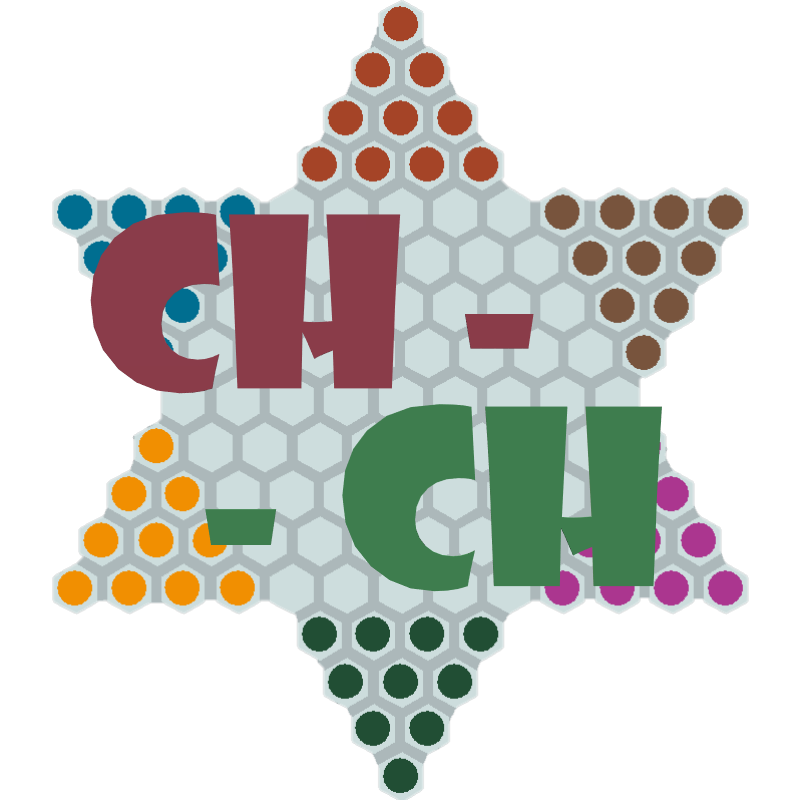
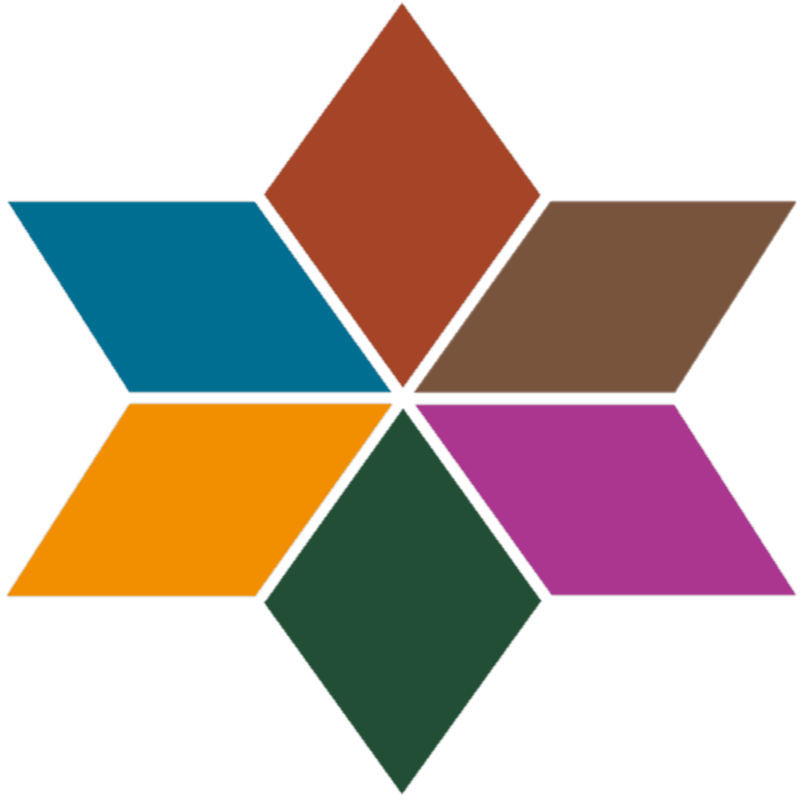
Implemented new generic filter for getting only rules of specified type from all that come from game context. Separated verification of args into new method in server main. Made first test for this verification process. Also merged iterators into one using generic types. And made that filterRules ac

diff --git a/ChineseCheckersServer/src/main/java/appServer/ServerCommunicationService.java b/ChineseCheckersServer/src/main/java/appServer/ServerCommunicationService.java
@@ -1,3 +1,8 @@
+package appServer;
+
+import games.Change;
+import games.boards.Cell;
+import games.boards.GameBoard;
 import games.rules.*;
 
 import java.io.IOException;
@@ -46,7 +51,7 @@ public class ServerCommunicationService {
 
             } else if (command.startsWith("PASS")) {
                 if (game.getCurrentPlayerId() == playerId) {
-                    game.resend("MESSAGE Player "+playerId+" passed his turn", playerId);
+                    game.resend("MESSAGE app.Player "+playerId+" passed his turn", playerId);
                     this.out.println("MESSAGE You Passed");
                     this.oldX = null;
                     this.oldY = null;
@@ -62,7 +67,7 @@ public class ServerCommunicationService {
         }
     }
 
-    private void processMoveCommand(int chosenX, int chosenY) {
+    public void processMoveCommand(int chosenX, int chosenY) {
 
         if (this.oldX == null || this.oldY == null) {
             if (this.game.getGameContext().getBoard().getCellState(chosenX, chosenY) != playerId) {
@@ -118,24 +123,37 @@ public class ServerCommunicationService {
         }
     }
 
-    private Change[] getPossibleMoves(int chosenX, int chosenY) {
-        //TODO : get all possible move
-        ArrayList<Change> list = new ArrayList<>();
-        Iterator gameRulesIterator = new GameRulesIterator(this.game.getGameContext().getRules());
+    public Change[] getPossibleMoves(int chosenX, int chosenY) {
+        ArrayList<Change> possibleMoves = new ArrayList<>();
+        GameBoard board = this.game.getGameContext().getBoard();
+        Cell currentCell = board.getCell(chosenX, chosenY);
 
-        while (gameRulesIterator.hasNext()) {
-            Iterator iterator = new RulesIterator(((MoveRule) gameRulesIterator.next()).getPossibleMoves(this.game.getGameContext().getBoard().getCell(chosenX, chosenY), this.game.getGameContext().getBoard()));
-//            Iterator iterator;
-//            if (gameRulesIterator.next() instanceof MoveRule) {
-//                iterator = new RulesIterator(((MoveRule) gameRulesIterator.next()).getPossibleMoves(this.game.getGameContext().getBoard().getCell(chosenX, chosenY), this.game.getGameContext().getBoard()));
-//            } else {
-//                iterator = new RulesIterator(((FilterRule) gameRulesIterator.next()).filterMoves(this.game.getGameContext().getBoard().getCell(chosenX, chosenY), this.game.getGameContext().getBoard()));
-//            }
+        MoveRule[] moveRules = this.game.getGameContext().getRulesOfType(MoveRule.class).toArray(new MoveRule[0]);
+        if (moveRules.length == 0) { moveRules = new MoveRule[]{new MoveOneRule()}; }
+
+        Iterator<MoveRule> moveRulesIterator = new Iterator<>(moveRules);
+
+        while (moveRulesIterator.hasNext()) {
+            Iterator<Change> iterator = new Iterator<>((moveRulesIterator.next()).getPossibleMoves(currentCell, board));
             while (iterator.hasNext()) {
-                list.add((Change) iterator.next());
+                possibleMoves.add(iterator.next());
             }
         }
-        return list.toArray(new Change[0]);
+
+        FilterRule[] filterRules = this.game.getGameContext().getRulesOfType(FilterRule.class).toArray(new FilterRule[0]);
+        if (filterRules.length == 0) { return possibleMoves.toArray(new Change[0]); }
+
+        ArrayList<Change> possibleMovesFiltered = new ArrayList<>();
+        Iterator<FilterRule> filterRulesIterator = new Iterator<>(filterRules);
+
+        while (filterRulesIterator.hasNext()) {
+            Iterator<Change> iterator = new Iterator<>((filterRulesIterator.next()).filterMoves(currentCell, board, possibleMoves.toArray(new Change[0])));
+            while (iterator.hasNext()) {
+                possibleMovesFiltered.add(iterator.next());
+            }
+        }
+
+        return possibleMovesFiltered.toArray(new Change[0]);
     }
 
     private String changesInfoToString(Change[] info) {

diff --git a/ChineseCheckersServer/src/main/java/appServer/MainServer.java b/ChineseCheckersServer/src/main/java/appServer/MainServer.java
@@ -1,3 +1,5 @@
+package appServer;
+
 import java.net.InetAddress;
 import java.net.ServerSocket;
 import java.util.concurrent.ExecutorService;
@@ -14,11 +16,6 @@ public class MainServer implements Runnable {
     @Override
     public void run() {
         try {
-            if (lobbySize != 2 && lobbySize != 3 && lobbySize != 4 && lobbySize != 6) {
-                System.out.println("Wrong number of players");
-                return;
-            }
-
             try (ServerSocket listener = new ServerSocket(58901)) {
 
                 System.out.println("Chinese Checkers Server is Running");
@@ -36,7 +33,7 @@ public class MainServer implements Runnable {
                     game.connectPlayer(newPlayer, i - 1);
                     pool.execute(newPlayer);
 
-                    System.out.println("Player " + i + " joined");
+                    System.out.println("app.Player " + i + " joined");
                 }
                 synchronized (this) {
                     wait(100);
@@ -49,18 +46,27 @@ public class MainServer implements Runnable {
         }
     }
 
-    public static void main(String[] args) {
-        if (args.length != 1) {
-            System.out.println("Specify number of players");
-            return;
-        }
+    public static int verifyArguments(String[] args) throws IllegalArgumentException {
+        if (args.length != 1) { throw new IllegalArgumentException("Incorrect number of arguments"); }
 
         int numberOfPlayers;
-        try {
-            numberOfPlayers = Integer.parseInt(args[0]);
-            new MainServer(numberOfPlayers).run();
-        } catch (NumberFormatException e) {
-            System.out.println("Wrong argument format");
+        try { numberOfPlayers = Integer.parseInt(args[0]);
+        } catch (NumberFormatException e) { throw new IllegalArgumentException("Incorrect argument format"); }
+
+        if (numberOfPlayers != 2 && numberOfPlayers != 3 && numberOfPlayers != 4 && numberOfPlayers != 6) {
+            throw new IllegalArgumentException("Incorrect number of players");
         }
+
+        return numberOfPlayers;
+    }
+
+    public static void main(String[] args) {
+        int numberOfPlayers;
+        try { numberOfPlayers = MainServer.verifyArguments(args); }
+        catch (IllegalArgumentException e) {
+            System.out.println(e.getMessage());
+            return;
+        }
+        new MainServer(numberOfPlayers).run();
     }
 }

diff --git a/ChineseCheckersClient/src/main/java/view/swing/SwingAppWindow.java b/ChineseCheckersClient/src/main/java/view/swing/SwingAppWindow.java
@@ -1,8 +1,8 @@
 package view.swing;
 
-import app.MainClient;
+import appClient.MainClient;
 import view.AppWindow;
-import app.BoardController;
+import appClient.BoardController;
 import view.BoardView;
 import view.CellState;
 
@@ -25,7 +25,7 @@ public class SwingAppWindow extends JFrame implements AppWindow {
         this.boardViewContainer = new Container();
         JLabel logo = new JLabel();
         logo.setSize(620, 620);
-        logo.setIcon(new ImageIcon(new ImageIcon("ChineseCheckersClient/src/main/resources/icon2.png").getImage().getScaledInstance(620, 620, Image.SCALE_SMOOTH)));
+        logo.setIcon(new ImageIcon(new ImageIcon("ChineseCheckersClient/src/main/resources/logo.png").getImage().getScaledInstance(620, 620, Image.SCALE_SMOOTH)));
 
         this.boardViewContainer.add(logo);
         this.messageLabel = new JLabel("Waiting for game to start");
@@ -51,7 +51,7 @@ public class SwingAppWindow extends JFrame implements AppWindow {
         this.add(closeButton, BorderLayout.NORTH);
 
         this.setTitle("Chinese Checkers - player");
-        this.setIconImage(new ImageIcon("ChineseCheckersClient/src/main/resources/icon4.png").getImage());
+        this.setIconImage(new ImageIcon("ChineseCheckersClient/src/main/resources/icon.png").getImage());
         this.setDefaultCloseOperation(JFrame.EXIT_ON_CLOSE);
         this.setSize(758, 790);
         this.setResizable(false);

diff --git a/ChineseCheckersServer/src/test/java/appServer/MainServerTest.java b/ChineseCheckersServer/src/test/java/appServer/MainServerTest.java
@@ -1,0 +1,38 @@
+package appServer;
+
+import org.junit.Assert;
+import org.junit.Test;
+
+import static org.junit.Assert.fail;
+
+public class MainServerTest {
+
+    @Test
+    public void testVerifyGoodArguments() {
+        String[][] argsToCheck = new String[][]{{"2"},{"3"},{"4"},{"6"}};
+
+        for (String[] args : argsToCheck) {
+            try {
+                MainServer.verifyArguments(args);
+            } catch (IllegalArgumentException e) {
+                fail("Exception thrown when arguments were correct");
+            }
+        }
+    }
+
+    @Test
+    public void testVerifyWrongArguments() {
+        String[][] argsToCheck = new String[][]{{"1"},{"5"},{"0"},{"-1"},{"7"},{"1.3"},{"aaa"},{"12","3"}};
+
+        for (int i = 0; i < argsToCheck.length; i++) {
+            try {
+                MainServer.verifyArguments(argsToCheck[i]);
+                fail("Exception not thrown when arguments were incorrect");
+            } catch (IllegalArgumentException e) {
+                if (i < 5) { Assert.assertEquals("Incorrect number of players", e.getMessage()); }
+                else if (i == 5 || i == 6) { Assert.assertEquals("Incorrect argument format", e.getMessage()); }
+                else { Assert.assertEquals("Incorrect number of arguments", e.getMessage()); }
+            }
+        }
+    }
+}

diff --git a/ChineseCheckersServer/src/main/java/games/rules/NotLeaveFinalCornerRule.java b/ChineseCheckersServer/src/main/java/games/rules/NotLeaveFinalCornerRule.java
@@ -1,20 +1,25 @@
 package games.rules;
 
+import games.Change;
 import games.boards.Cell;
 import games.boards.GameBoard;
+
+import java.util.ArrayList;
 
 public class NotLeaveFinalCornerRule implements FilterRule {
     @Override
     public Change[] filterMoves(Cell currentCell, GameBoard board, Change[] changes) {
-//        if (board.getC) {
-//
-//        } else {
-//            ArrayList<Change> filteredMoves = new ArrayList<>();
-//            for (Change change : changes) {
-//
-//            }
-//            return filteredMoves;
-//        }
-        return null;
+        if (board.getCorner(currentCell.getX(), currentCell.getY()) != board.getDestination(currentCell.getCellState())) {
+            return changes;
+        }
+
+        ArrayList<Change> filteredMoves = new ArrayList<>();
+        for (Change change : changes) {
+            if (board.getCorner(change.getX(), change.getY()) == board.getDestination(currentCell.getCellState())) {
+                filteredMoves.add(change);
+            }
+        }
+
+        return filteredMoves.toArray(new Change[0]);
     }
 }

diff --git a/ChineseCheckersServer/src/main/java/games/boards/StandardBoard.java b/ChineseCheckersServer/src/main/java/games/boards/StandardBoard.java
@@ -55,10 +55,11 @@ public class StandardBoard implements GameBoard {
         return null;
     }
 
-    public int getCorner(Cell searchedCell) {
+    @Override
+    public int getCorner(int x, int y) {
         for (int i = 0; i < 6; i++) {
             for (Cell cell : cornerCells[i]) {
-                if (cell == searchedCell) {
+                if (cell.getX() == x && cell.getY() == y) {
                     return i;
                 }
             }
@@ -106,12 +107,17 @@ public class StandardBoard implements GameBoard {
 
     @Override
     public boolean isWinner(int playerId) {
-        for (Cell cell : cornerCells[(playerPlacing[playerId - 1] + 3) % 6]) {
+        for (Cell cell : cornerCells[getDestination(playerId)]) {
             if (cell.getCellState() != playerId) {
                 return false;
             }
         }
         return true;
+    }
+
+    @Override
+    public int getDestination(int playerId) {
+        return (playerPlacing[playerId - 1] + 3) % 6;
     }
 
     @Override

diff --git a/ChineseCheckersServer/src/main/java/games/GameContext.java b/ChineseCheckersServer/src/main/java/games/GameContext.java
@@ -1,9 +1,25 @@
 package games;
 
 import games.boards.GameBoard;
+import games.rules.FilterRule;
 import games.rules.GameRule;
+
+import java.lang.reflect.Array;
+import java.util.ArrayList;
 
 public interface GameContext {
     GameRule[] getRules();
     GameBoard getBoard();
+
+    default <T extends GameRule> ArrayList<T> getRulesOfType(Class<T> searchedClass) {
+        ArrayList<T> rules = new ArrayList<>();
+        for (GameRule rule : this.getRules()) {
+            if (searchedClass.isInstance(rule)) {
+                T ruleCast = searchedClass.cast(rule);
+                rules.add(ruleCast);
+            }
+        }
+
+        return rules;
+    }
 }

diff --git a/ChineseCheckersServer/src/main/java/games/StandardGameContext.java b/ChineseCheckersServer/src/main/java/games/StandardGameContext.java
@@ -4,6 +4,7 @@ import games.boards.GameBoard;
 import games.boards.StandardBoard;
 import games.rules.GameRule;
 import games.rules.MoveOneRule;
+import games.rules.NotLeaveFinalCornerRule;
 import games.rules.SmallJumpRule;
 
 public class StandardGameContext implements GameContext {
@@ -13,7 +14,8 @@ public class StandardGameContext implements GameContext {
     public StandardGameContext() {
         this.rules = new GameRule[] {
                 new MoveOneRule(),
-                new SmallJumpRule()
+                new SmallJumpRule(),
+                new NotLeaveFinalCornerRule()
         };
         this.board = new StandardBoard();
     }

diff --git a/ChineseCheckersServer/src/main/java/appServer/Iterator.java b/ChineseCheckersServer/src/main/java/appServer/Iterator.java
@@ -1,0 +1,23 @@
+package appServer;
+
+public class Iterator<T> {
+    T[] elements;
+    int j;
+
+    public Iterator (T[] initialElements)
+    {
+        this.elements = initialElements;
+    }
+
+    public T next()
+    {
+        T element =  elements[j];
+        j++;
+        return element;
+    }
+
+    public boolean hasNext()
+    {
+        return j < elements.length && elements[j] != null;
+    }
+}

diff --git a/ChineseCheckersServer/src/main/java/games/boards/GameBoard.java b/ChineseCheckersServer/src/main/java/games/boards/GameBoard.java
@@ -6,5 +6,7 @@ public interface GameBoard {
     void setCellState(int x, int y, int newState);
     void placePlayers(int numberOfPlayers);
     boolean isWinner(int playerId);
+    int getDestination(int playerId);
+    int getCorner(int x, int y);
     int[][] asGameInfo();
     }

diff --git a/ChineseCheckersServer/src/main/java/games/rules/FilterRule.java b/ChineseCheckersServer/src/main/java/games/rules/FilterRule.java
@@ -1,5 +1,6 @@
 package games.rules;
 
+import games.Change;
 import games.boards.Cell;
 import games.boards.GameBoard;
 

diff --git a/ChineseCheckersServer/src/main/java/games/rules/MoveOneRule.java b/ChineseCheckersServer/src/main/java/games/rules/MoveOneRule.java
@@ -1,5 +1,6 @@
 package games.rules;
 
+import games.Change;
 import games.boards.Cell;
 import games.boards.GameBoard;
 
